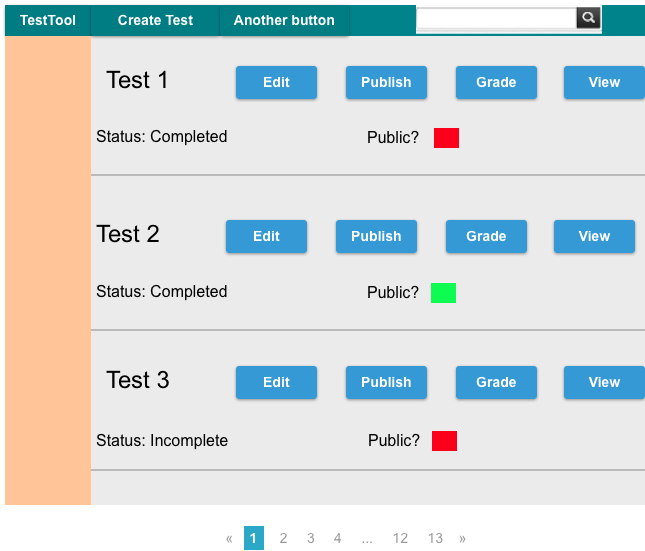
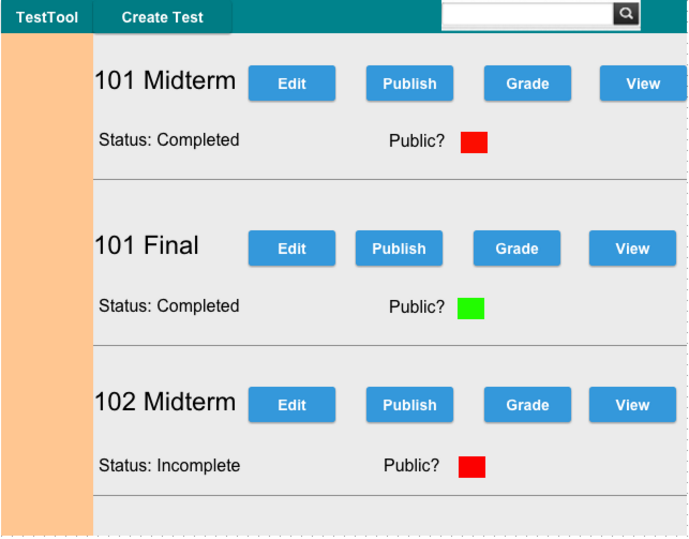
Edited Test admin and test creation

Changed region(s): [[0.0, 0.0, 1.0, 1.0], [0.8682, 0.1187, 1.0, 0.2078], [0.3721, 0.9499, 0.4341, 1.0]]

diff --git a/requirements/test-creation-scenario.html b/requirements/test-creation-scenario.html
@@ -1,7 +1,7 @@
 <!DOCTYPE html>
 <html>
 <head>
-<title>2.8 Creating a Test</title>
+<title>2.2.1 Creating a Test</title>
 <!-- Latest compiled and minified CSS -->
 <link rel="stylesheet" href="https://maxcdn.bootstrapcdn.com/bootstrap/3.3.5/css/bootstrap.min.css">
 
@@ -18,72 +18,53 @@ img {
 
       <span name="Creating a Test">
          <h3>
-         2.8 Creating a Test
+         2.2.1 Creating a Test
          </h3>
       </span>
 
       <p>
-         This introductory scenario shows a user creating a simple test. Test creation is one of the most fundamental and commonly performed with the Test Tool. In this scenario we will assume the User is registered with the application and just logged in to it. From here the User will select the "Tests" button as seen on the landing page in Figure 1.
+         This introductory scenario shows a user creating a simple test. Test creation is one of the most fundamental and commonly performed with the Test Tool. In this scenario the User is registered with the application and logged in to it. After the user selects the tests button on the landing page they are presented with the Test Overview Screen, seen in Figure 1.
       </p>
+
 
       <hr>
       <div class="text-center">
-         <img src="img/instructorlanding.png">
+         <img src="img/testoverviewempty.png">
          <p>
-            Figure 1: The Instructor Landing Page.
-         </p>
-      </div>
-      <hr>
-
-      <p>
-         Here the user will be presented with the Test Overview screen. Seen in Figure 2.
-      </p>
-
-      <hr>
-      <div class="text-center">
-         <img src="img/testoverview.png">
-         <p>
-            Figure 2: The Test Overiew Page.
+            Figure 1: The Test Overiew Page.
          </p>
          </div>
       <hr>
 
 
       <p>
-         The Figure shows the highest level page involving test editing and creation. On the top menu bar the user is presented with a 'Create Test' button to create new tests, and a search bar to find already created tests.
+         The Figure shows the highest level page involving test editing and creation. On the top menu bar the user is presented with a 'Create Test' button to create new tests, and a search bar to find already created tests. Here the screen is empty, because the user has yet to make anytests
       </p>
 
-      <p>
-         Each already created test is shown on the screen to the user. Relevant information about each test is shown including: The name of the test, its status (which indicates if the user has finished creating the test), and a red or green square indicating if the test is public or not. Red indicates the test is not public, while green indicates that the test is public.
-      </p>
 
       <p>
-         Finally at the bottom of the screen the user is presented with a page navigation bar so that they can move through their various created tests.
-      </p>
-
-      <p>
-         To create a test the user will select the 'Create Test' button on the top menu bar, which will take them to the test creation page shown in Figure 3.
+         To create a test the user selects the 'Create Test' button on the top menu bar or in the middle of the screen, which takes them to the test creation page shown in Figure 2.
       </p>
 
       <hr>
       <div class="text-center">
          <img src="img/new-test-options.png">
          <p>
-            Figure 3: New Tests Creation
+            Figure 2: New Tests Creation
          </p>
          </div>
       <hr>
 
 
       <p>
-         This Figure has various data fields avaialable to the user. The first is a text field to name the test. The second and third will bring up a dialogue for the user to select a date that the test is intended to be taken on, seen in Figure 4.
+         This Figure has various data fields avaialable to the user. The first is a text field to name the test. The second and third will bring up a dialogue for the user to select a date that the test is intended to be taken on, seen in Figure 3.
       </p>
 
       <hr>
       <div class="text-center">
          <img src="img/time-date-picker.png">
          <p>
-            Figure 4: Time and Date Picker.
+            Figure 3: Time and Date Picker.
          </p>
          </div>
       <hr>
@@ -95,32 +76,54 @@ img {
       </p>
 
       <p>
-         Next, selecting the "Assign To" field will produce a drop down menu that allows the instructor to pick which classes this test should be associated with. This menu is shown in Figure 5.
+         Next, selecting the "Assign To" field will produce a drop down menu that allows the instructor to pick which classes this test should be associated with. This menu is shown in Figure 4.
       </p>
 
 
       <hr>
       <div class="text-center">
-         <img src="img/assing-to-box.png">
+         <img src="img/assign-to-box.png">
          <p>
-            Figure 5: Assign To Menu
+            Figure 4: Assign To Menu
          </p>
          </div>
       <hr>
 
       <p>
-         Finally the user will select from a few options involving test visibility, such as when to show exam scores to students or if they should be able to see their exams after finishing them. These can be seen in Figure 1.
+         Finally, the user clicks the "next" button to go to the automatic creation page, seen in Figure 5.
       </p>
 
+      <hr>
+      <div class="text-center">
+         <img src="img/automatedtest.png">
+         <p>
+            Figure 5: Automated Test Generation 
+         </p>
+         </div>
+      <hr>
+
       <p>
-         After this the user clicks the "Create Test and Add Questions" button and the automated test creator will populate the test with questions and allow the user to edit the newly created test if they wish.
+         This screen provides the user with options on automated test generation. These options are the number of questions on the test, how many questions of each difficulty (easy, medium or hard), and the desired subjects. The screen with all finalized options is shown in Figure 6.
+      </p>
+
+      <hr>
+      <div class="text-center">
+         <img src="img/finishedautomation.png">
+         <p>
+            Figure 6: Finished Automated Test Generation 
+         </p>
+         </div>
+      <hr>
+
+      <p>
+         Finally the user clicks on the Generate Questions button to create the test. 
       </p>
 
       <hr>
       <footer class="text-center">
          Prev: <a href="take-tests.html">Student Test View</a>
-         | Next: [none]
-         | Up: <a href="index.html">index</a>
+         | Next: <a href="view-test.html">View Completed Test</a>
+         | Up: <a href="testoverview.html">Test Overview</a>
          | Top: <a href="index.html">index</a>
       </footer>
       <hr>

diff --git a/requirements/index.html b/requirements/index.html
@@ -157,19 +157,14 @@
                   <li>Tests Overview</li>
 
                   <ol class="list-2-2">
-                     <a href="test-admin.html">
+                     <a href="testoverview.html">
                         <li>Test Admin</li>
                      </a>
-                     <a href="new-test.html">
+                     <a href="test-creation-scenario.html">
                         <li>New Test Creation</li>
-                        <ol class="list-2-2-1">
-                           <a href="test-creation-scenario.html">
-                              <li>New Test Creation</li>
-                           </a>
-                           <a href="view-test.html">
-                              <li>View Completed Test</li>
-                           </a>
-                        </ol>
+                     </a>
+                     <a href="view-test.html">
+                        <li>View Created Test</li>
                      </a>
                      <a href="edit-tests.html">
                         <li>Edit Tests</li>

diff --git a/requirements/view-test.html b/requirements/view-test.html
@@ -1,5 +1,5 @@
 <!DOCTYPE html PUBLIC "-//W3C//DTD HTML 4.01//EN" "http://www.w3.org/TR/html4/strict.dtd">
-<html><head><title>2.3.2 View Test</title><!-- Latest compiled and minified CSS -->
+<html><head><title>2.2.3.1 View Test</title><!-- Latest compiled and minified CSS -->
 
   
 
@@ -15,7 +15,7 @@
 <h3>2.3.2 View Test Questions<br></h3></a>Figure 1 shows the questions assigned to a test.<br>
 
 <hr style="height: 2px;">
-<p align="center"><img src="img/view-test.png" alt="view-test.png"></p>
+<p align="center"><img src="img/viewtests.png" alt="viewtests.png"></p>
 
 
 <p align="center">Figure 1: View Test Questions<br>
